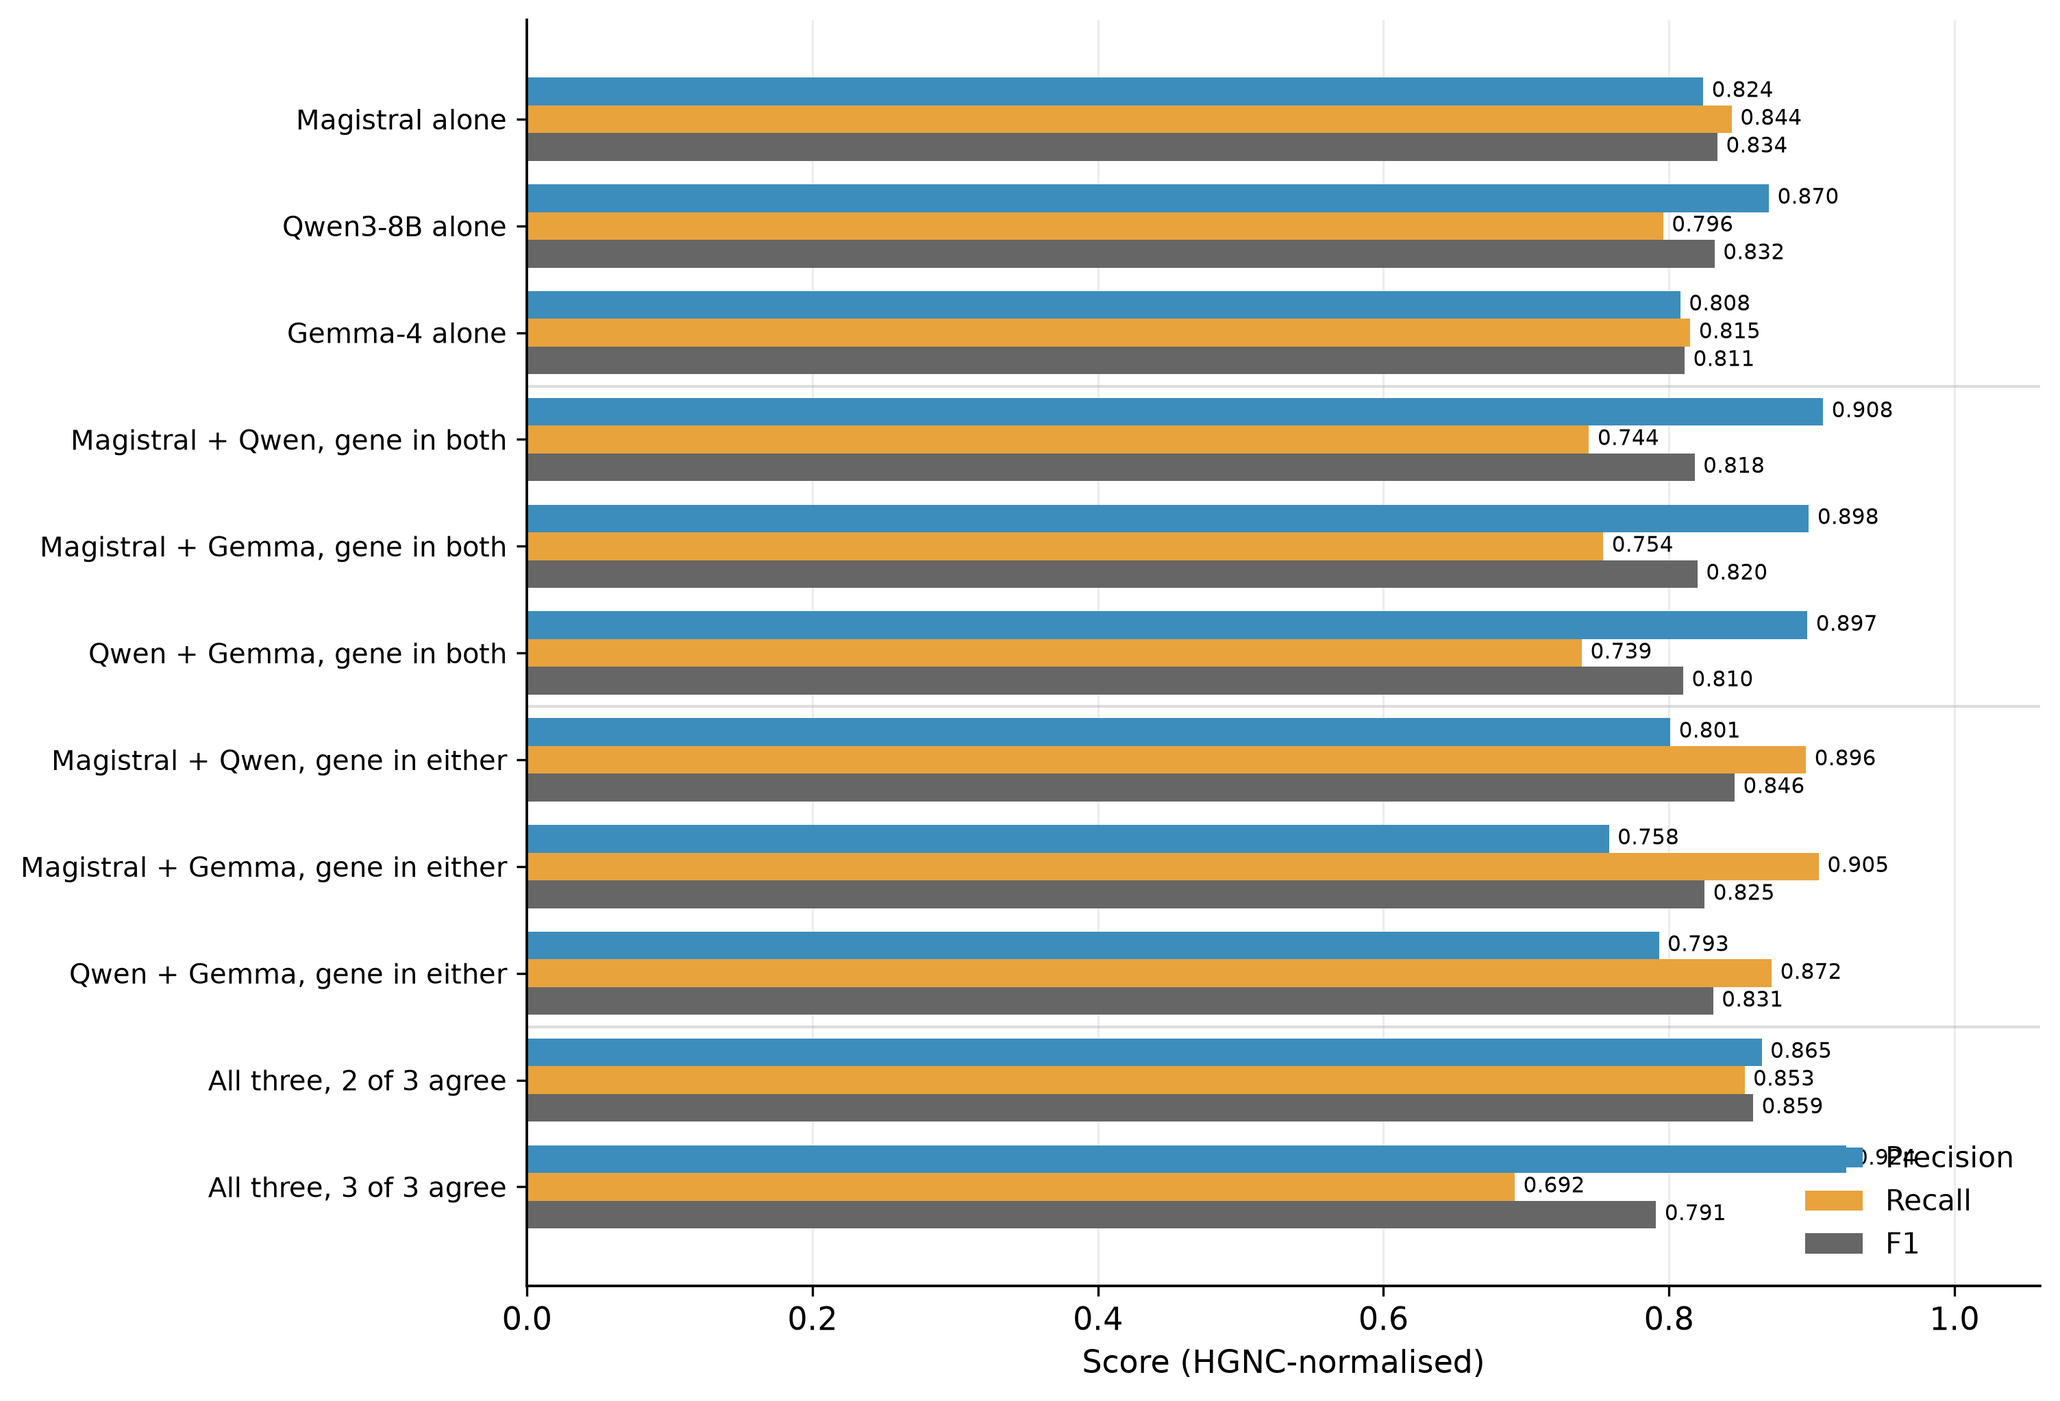
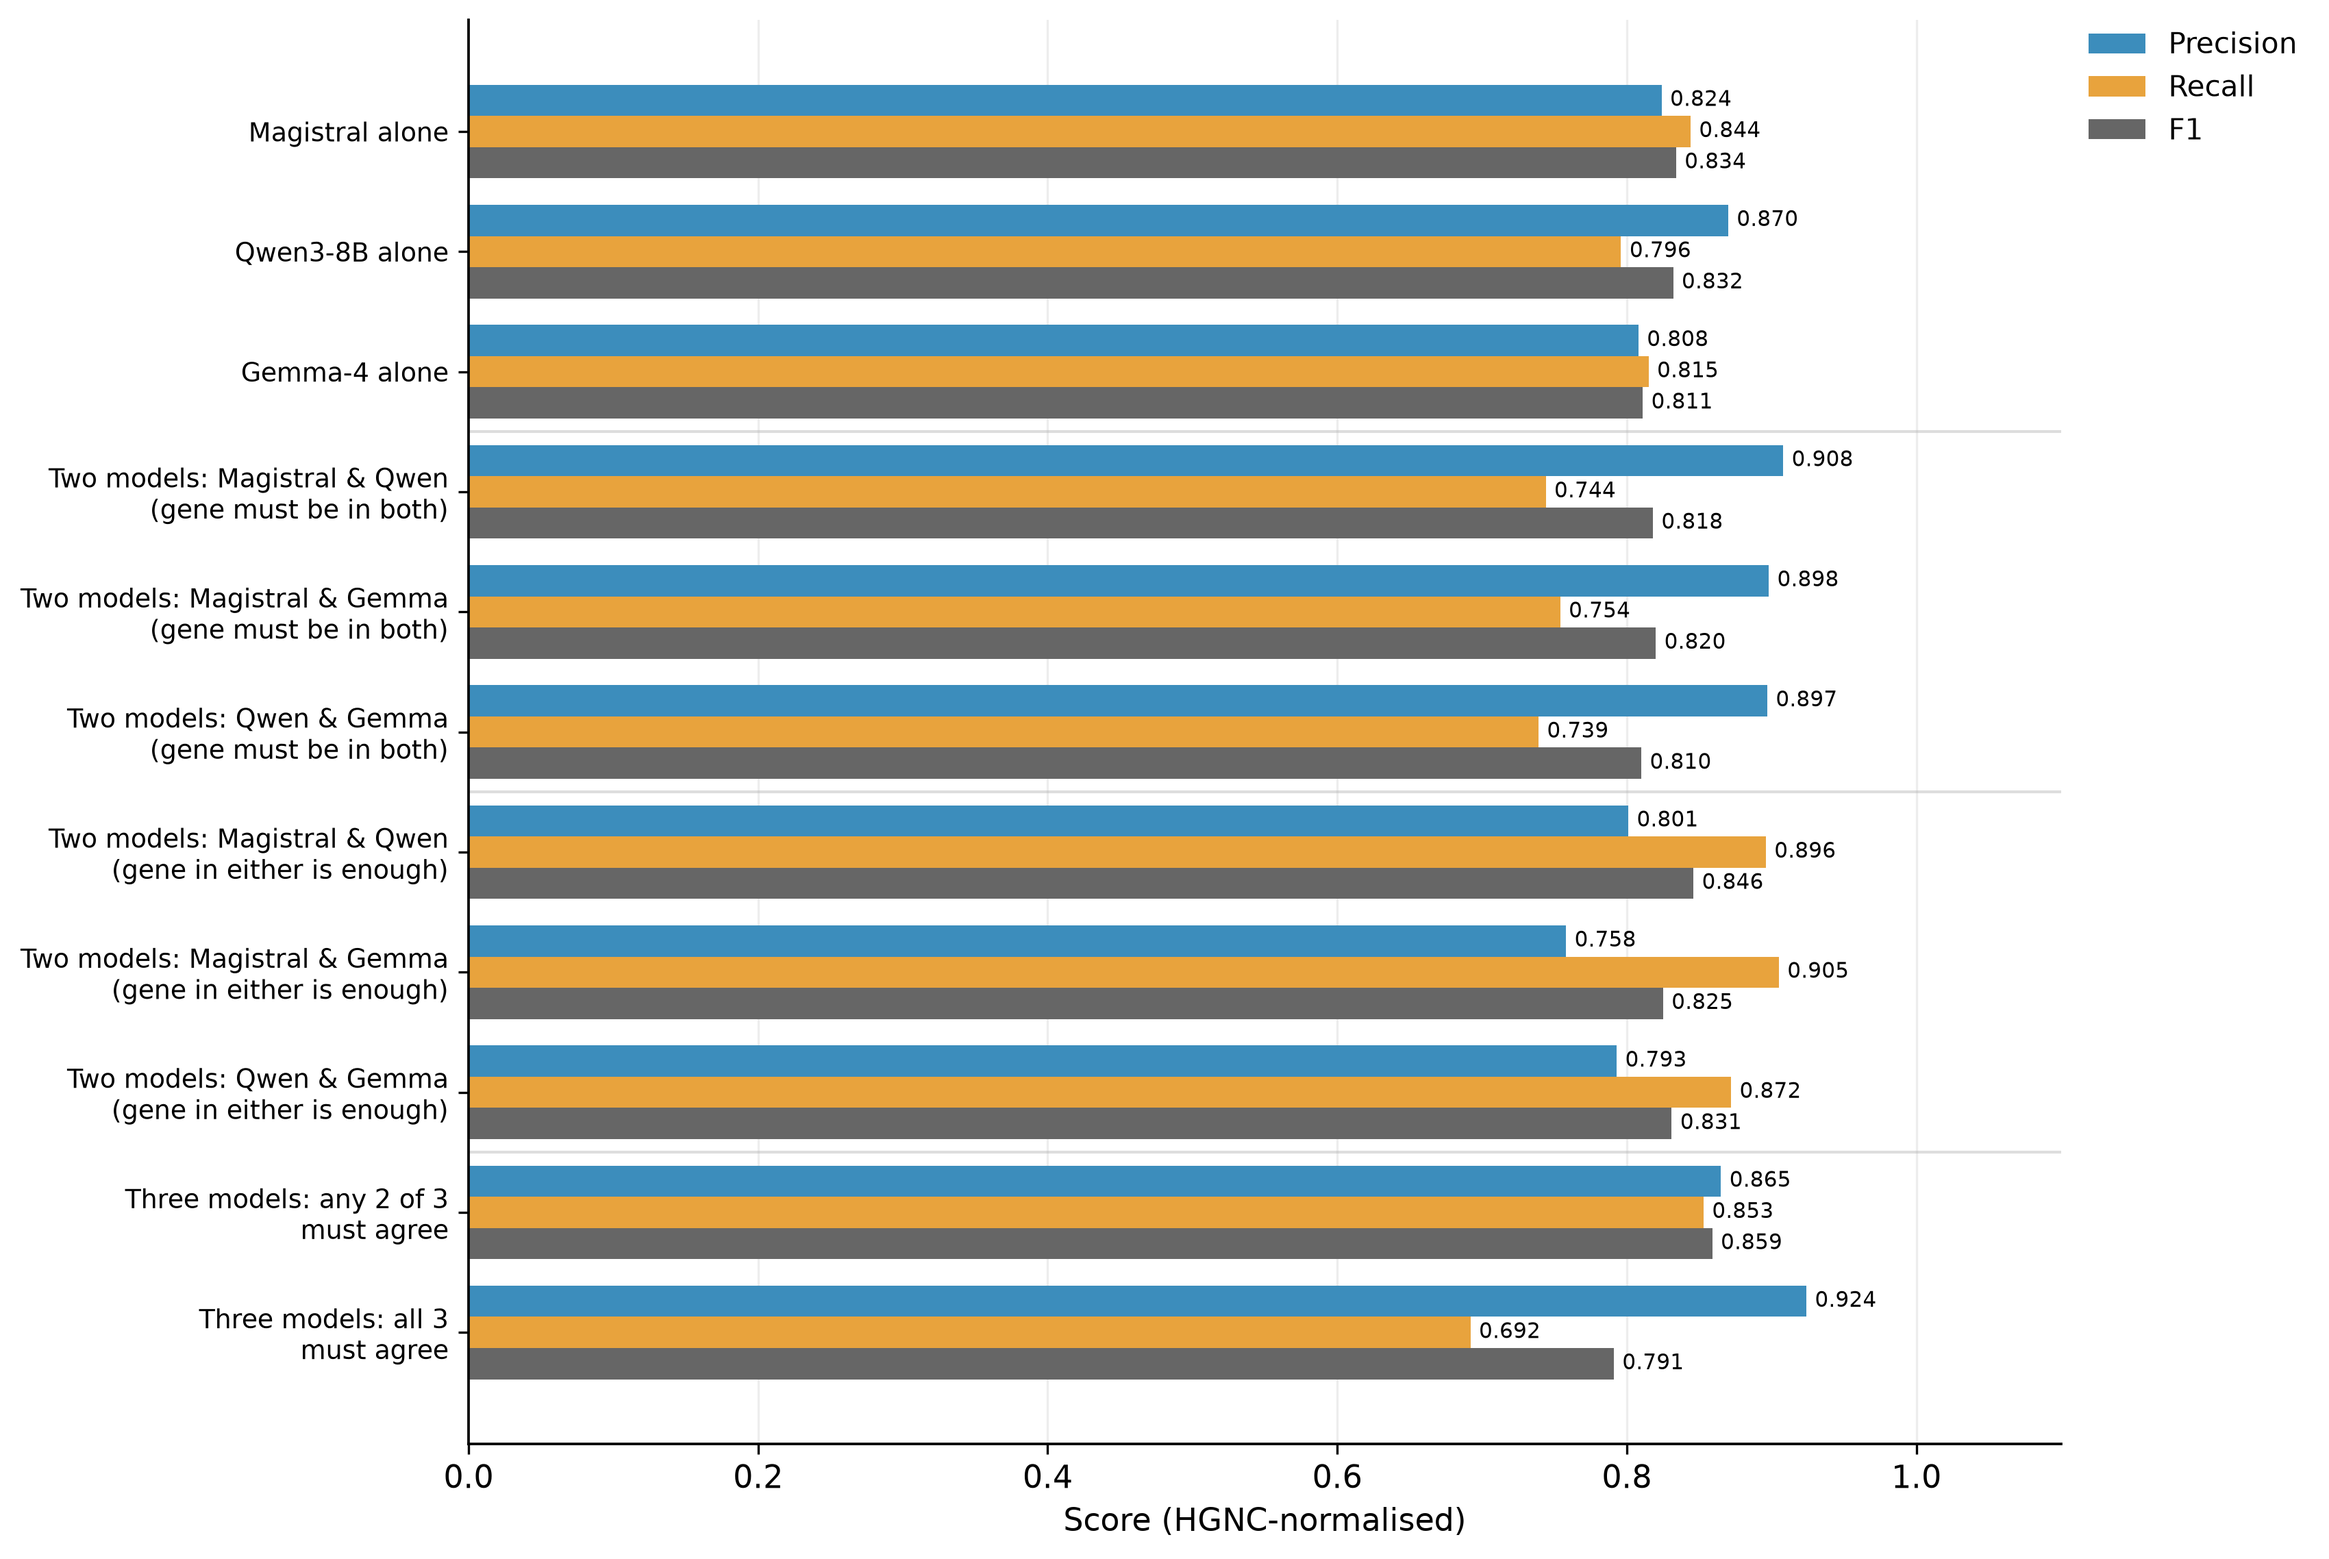
Horizontal consensus figures with every model combination named

diff --git a/plot_consensus.py b/plot_consensus.py
@@ -33,14 +33,14 @@ CONFIGS = [
     ("Magistral alone",                      MAG, "single"),
     ("Qwen3-8B alone",                       QWN, "single"),
     ("Gemma-4 alone",                        GEM, "single"),
-    ("Magistral + Qwen, gene in both",   f"{CONS}/MagQwen_intersection", "both"),
-    ("Magistral + Gemma, gene in both",  f"{CONS}/MagGem_intersection",  "both"),
-    ("Qwen + Gemma, gene in both",       f"{CONS}/QwenGem_intersection", "both"),
-    ("Magistral + Qwen, gene in either",  f"{CONS}/MagQwen_union",  "either"),
-    ("Magistral + Gemma, gene in either", f"{CONS}/MagGem_union",   "either"),
-    ("Qwen + Gemma, gene in either",      f"{CONS}/QwenGem_union",  "either"),
-    ("All three, 2 of 3 agree",           f"{CONS}/vote2", "three"),
-    ("All three, 3 of 3 agree",           f"{CONS}/vote3", "three"),
+    ("Two models: Magistral & Qwen\n(gene must be in both)",   f"{CONS}/MagQwen_intersection", "both"),
+    ("Two models: Magistral & Gemma\n(gene must be in both)",  f"{CONS}/MagGem_intersection",  "both"),
+    ("Two models: Qwen & Gemma\n(gene must be in both)",       f"{CONS}/QwenGem_intersection", "both"),
+    ("Two models: Magistral & Qwen\n(gene in either is enough)",  f"{CONS}/MagQwen_union",  "either"),
+    ("Two models: Magistral & Gemma\n(gene in either is enough)", f"{CONS}/MagGem_union",   "either"),
+    ("Two models: Qwen & Gemma\n(gene in either is enough)",      f"{CONS}/QwenGem_union",  "either"),
+    ("Three models: any 2 of 3\nmust agree",           f"{CONS}/vote2", "three"),
+    ("Three models: all 3\nmust agree",           f"{CONS}/vote3", "three"),
 ]
 
 def score(d):
@@ -71,7 +71,7 @@ for label, d, cat in CONFIGS:
 # ---------------- figure A: horizontal grouped bars ----------------
 y = np.arange(len(rows))
 h = 0.26
-fig, ax = plt.subplots(figsize=(9.5, 8))
+fig, ax = plt.subplots(figsize=(10, 9))
 
 ax.barh(y - h, [r["P"] for r in rows],  height=h, color="#3C8DBC", label="Precision")
 ax.barh(y,     [r["R"] for r in rows],  height=h, color="#E8A33D", label="Recall")
@@ -90,11 +90,12 @@ for i, r in enumerate(rows):
     seen = r["category"]
 
 ax.set_yticks(y)
-ax.set_yticklabels([r["config"] for r in rows], fontsize=9.5)
+ax.set_yticklabels([r["config"] for r in rows], fontsize=9)
 ax.invert_yaxis()
 ax.set_xlabel("Score (HGNC-normalised)")
-ax.set_xlim(0, 1.06)
-ax.legend(loc="lower right", fontsize=10)
+ax.set_xlim(0, 1.10)
+ax.legend(loc="upper left", bbox_to_anchor=(1.01, 1.0),
+          fontsize=10, borderaxespad=0)
 for s in ("top", "right"):
     ax.spines[s].set_visible(False)
 ax.grid(axis="x", alpha=.22); ax.set_axisbelow(True)
